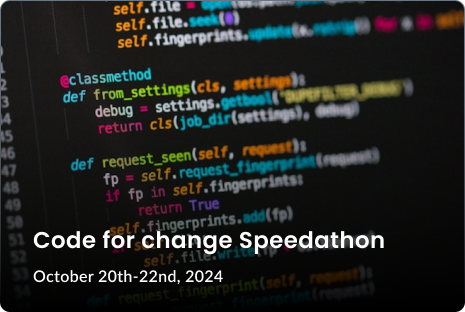
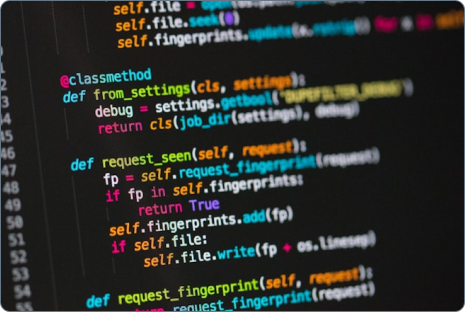
community section card hover

Changed region(s): [[0.0, 0.4038, 1.0, 1.0], [0.2108, 0.3173, 0.7828, 0.4327]]

diff --git a/components/body/body.html b/components/body/body.html
@@ -508,15 +508,50 @@
             <h5 class="community_title">Community Events</h5>
         </div>
         <div class="col-md-9">
-            <div class="row">
-                <div class="col-md-4">
-                    <img class="community_event_image" src="assets/Component_151.png">
-                </div>
-                <div class="col-md-auto">
-                    <img class="community_event_image" src="assets/Component_151.png">
+          <div class="row">
+              <div class="col-md-4">
+                  <div class="event-container">
+                      <img class="community_event_image" src="assets/Component_151.png" alt="Event">
+                      <div class="event-text">
+                          <div class="row">
+                            <div class="col-md-12 poppins-light event-header text-start ms-4"><p>Code for change Speedathon</p></div>
+                            <div class="col-md-12 poppins-light text-start ms-4"><p>Build innovative solutions to real-world challenges</p></div>
+                          </div>
+                          <div class="row">
+                            <div class="col-md-6 poppins-light text-start ms-4">
+                              <p class="event_date">October 20th-22nd, 2024</p>
+                              <p>Open to all skin levels</p>
+                            </div>
+                            <div class="col-md-4 d-flex justify-content-center align-items-center poppins-light">
+                              <button class="learn_more_btn">Learn more <img src="assets/blue_arrow.png" alt="arrow" class="blue_arrow-icon" style="width: 7%;"/></button>
+                            </div>
+                          </div>
+                      </div>
+                  </div>
+              </div>
+              <div class="col-md-4">
+                <div class="event-container">
+                    <img class="community_event_image" src="assets/Component_151.png" alt="Event">
+                    <div class="event-text">
+                        <div class="row">
+                          <div class="col-md-12 poppins-light event-header text-start ms-4"><p>Code for change Speedathon</p></div>
+                          <div class="col-md-12 poppins-light text-start ms-4"><p>Build innovative solutions to real-world challenges</p></div>
+                        </div>
+                        <div class="row">
+                          <div class="col-md-6 poppins-light text-start ms-4">
+                            <p class="event_date">October 20th-22nd, 2024</p>
+                            <p>Open to all skin levels</p>
+                          </div>
+                          <div class="col-md-4 d-flex justify-content-center align-items-center poppins-light">
+                            <button class="learn_more_btn">Learn more <img src="assets/blue_arrow.png" alt="arrow" class="blue_arrow-icon" style="width: 7%;"/></button>
+                          </div>
+                        </div>
+                    </div>
                 </div>
             </div>
-        </div>
+          </div>
+      </div>
+      
       </div>
 
     </div>

diff --git a/styles.css b/styles.css
@@ -539,6 +539,79 @@
         color: #0A2540;
         font-size: 14.1px;
     }
+    .event-container {
+        position: relative;
+        overflow: hidden;
+        display: inline-block;
+        border-radius: 10px;
+    }
+    
+    .community_event_image {
+        width: 100%;
+        height: auto;
+        transition: transform 0.3s ease;
+    }
+    
+    /* Linear gradient overlay */
+    .event-container::after {
+        content: "";
+        position: absolute;
+        top: 0;
+        left: 0;
+        width: 100%;
+        height: 100%;
+        background: linear-gradient(#06060682 0%, #1a1a1af0 49.62%, #0000007d 100%);
+        opacity: 0;
+        transition: opacity 0.3s ease;
+    }
+    
+    /* Text styling */
+    .event-text {
+        position: absolute;
+        bottom: 10px;
+        left: 50%;
+        transform: translateX(-50%);
+        text-align: center;
+        color: white;
+        font-weight: bold;
+        font-size: 10px;
+        opacity: 0;
+        transition: all 0.3s ease;
+    }
+    .event-container:hover .learn_more_btn{
+        border: none;
+        background-color: #fff;
+        color: #0A2540;
+        margin-right: 8px;
+        padding: 4px 6px;
+        border-radius: 13px;
+    }
+    .event-header{
+        font-size: 14px;
+        font-weight: 600 !important;
+        height: 25px;
+    }
+    .event_date{
+        margin-bottom: 3px;
+    }
+    
+    /* Hover effects */
+    .event-container:hover::after {
+        opacity: 1;
+    }
+    
+    /* .event-container:hover .community_event_image {
+       
+    } */
+    
+    .event-container:hover .event-text {
+        bottom: 17%;
+        opacity: 1;
+        width: 100%;
+        color: #fff;
+        z-index: 2;
+    }
+    
     .community_event_image{
      height: 70%;
     }
